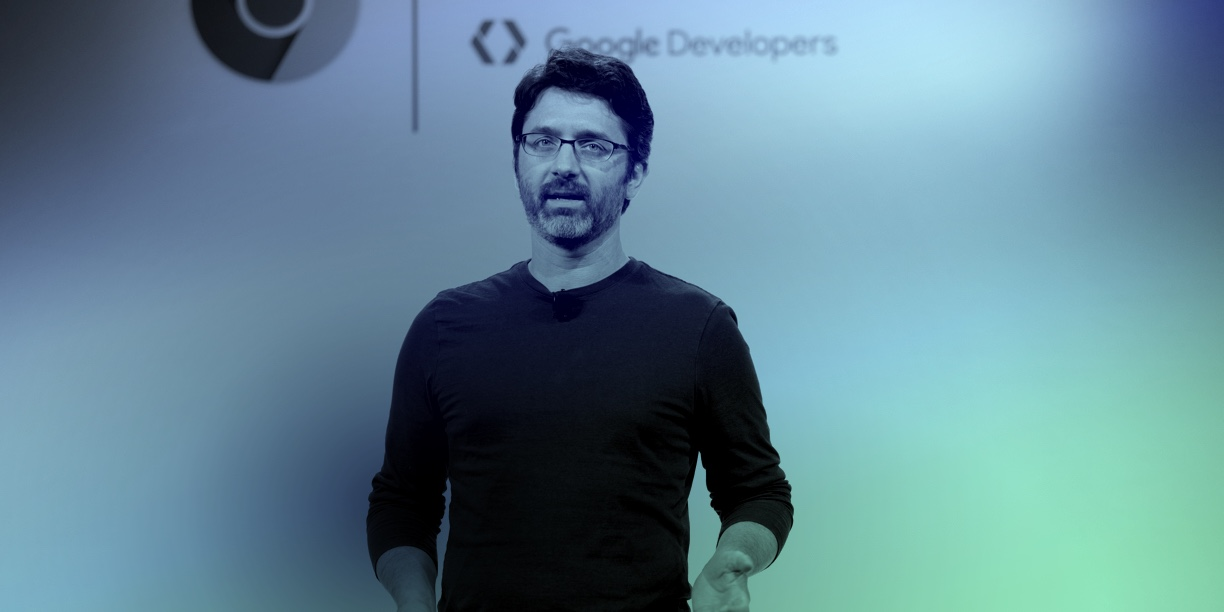
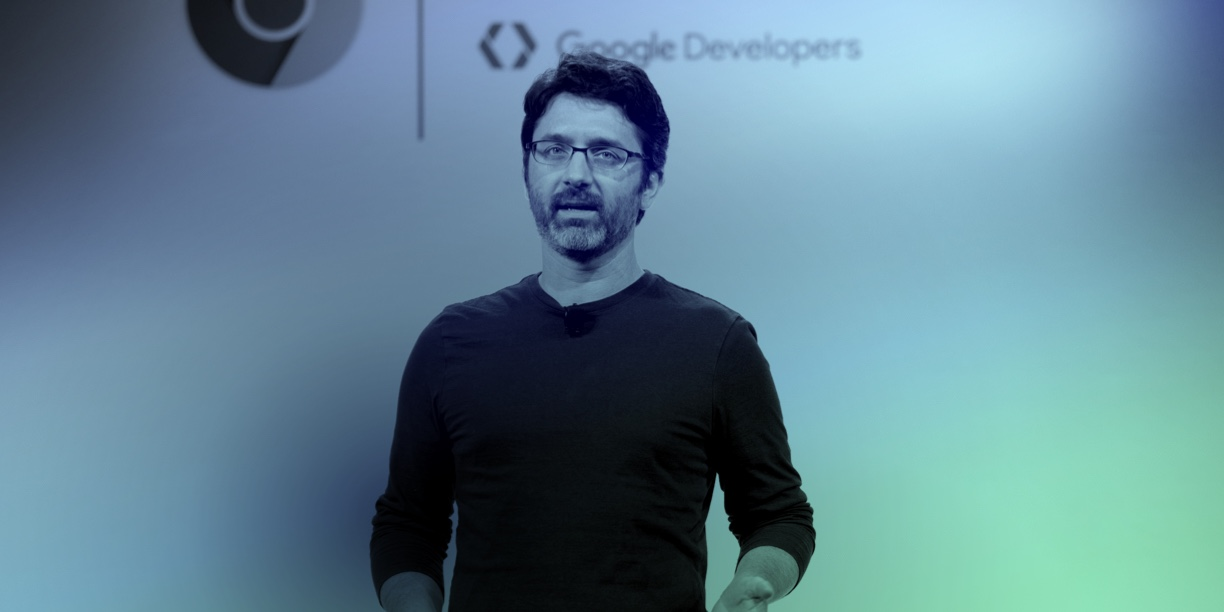
Add 1.5x images for 1440px+ viewports

diff --git a/templates/includes/masthead.partial.html b/templates/includes/masthead.partial.html
@@ -34,7 +34,7 @@
       <foreignObject clip-path="url(#masthead-clip)" width="100%" height="100%">
         <style>
           #masthead-image {
-            background: url({{ image }}) center center no-repeat;
+            background: url({{ image }}.jpg) center center no-repeat;
             background-size: cover;
             width: 1224px;
             height: 612px;
@@ -61,6 +61,11 @@
 
           @media (min-width: 1440px) {
             #masthead-image {
+              {# A YT video will have a blurred image background, so there's no point in having a 1.5x video #}
+              {% if not youtubeId %}
+              background: url({{ image }}@1.5x.jpg) center center no-repeat;
+              background-size: cover;
+              {% endif %}
               background-position: 0 {% if is_live %}12vw{% else %}8vw{% endif %};
             }
           }

diff --git a/sections/home.html b/sections/home.html
@@ -1,6 +1,6 @@
 {% extends "templates/base.html" %}
 {% set inline_styles=True %}
-{% set mastheadimage="/devsummit/static/images/masthead/homepage-masthead.jpg" %}
+{% set mastheadimage="/devsummit/static/images/masthead/homepage-masthead" %}
 {% set mastheadtitle="Chrome Dev Summit" %}
 {% set mastheadimagetitle="Darin Fisher delivering the Keynote at Chrome Dev Summit 2015." %}
 {% set pagestyles="static/styles/home.css" %}

diff --git a/sections/schedule/sessions/session-2.html b/sections/schedule/sessions/session-2.html
@@ -1,5 +1,5 @@
 {% extends "templates/base.html" %}
-{% set mastheadimage="/devsummit/static/images/masthead/collage-masthead-blurred.jpg" %}
+{% set mastheadimage="/devsummit/static/images/masthead/collage-masthead-blurred" %}
 {% set mastheadimagetitle="A blurred collage of photos from Chrome Dev Summit 2015." %}
 {% set pagestyles="static/styles/sessions.css" %}
 {% set section="Session" %}

diff --git a/sections/code-of-conduct.html b/sections/code-of-conduct.html
@@ -1,5 +1,5 @@
 {% extends "templates/base.html" %}
-{% set mastheadimage="/devsummit/static/images/masthead/collage-masthead.jpg" %}
+{% set mastheadimage="/devsummit/static/images/masthead/collage-masthead" %}
 {% set mastheadimagetitle="A collage of photos from Chrome Dev Summit 2015." %}
 {% set mastheadtitle="Code of Conduct" %}
 {% set pagestyles="static/styles/code-of-conduct.css" %}

diff --git a/sections/live.html b/sections/live.html
@@ -1,5 +1,5 @@
 {% extends "templates/base.html" %}
-{% set mastheadimage="/devsummit/static/images/masthead/collage-masthead-blurred.jpg" %}
+{% set mastheadimage="/devsummit/static/images/masthead/collage-masthead-blurred" %}
 {% set mastheadimagetitle="A blurred collage of photos from Chrome Dev Summit 2015." %}
 {% set pagestyles="static/styles/live.css" %}
 {% set section="Live" %}

diff --git a/sections/schedule.html b/sections/schedule.html
@@ -1,5 +1,5 @@
 {% extends "templates/base.html" %}
-{% set mastheadimage="/devsummit/static/images/masthead/collage-masthead.jpg" %}
+{% set mastheadimage="/devsummit/static/images/masthead/collage-masthead" %}
 {% set mastheadimagetitle="A collage of photos from Chrome Dev Summit 2015." %}
 {% set mastheadtitle="Schedule" %}
 {% set pagestyles="static/styles/schedule.css" %}

diff --git a/sections/location.html b/sections/location.html
@@ -1,5 +1,5 @@
 {% extends "templates/base.html" %}
-{% set mastheadimage="/devsummit/static/images/masthead/location-masthead.jpg" %}
+{% set mastheadimage="/devsummit/static/images/masthead/location-masthead" %}
 {% set mastheadimagetitle="Miner Auditorium at SF Jazz." %}
 {% set mastheadtitle="Location" %}
 {% set pagestyles="static/styles/location.css" %}

diff --git a/sections/schedule/day-2.html b/sections/schedule/day-2.html
@@ -1,5 +1,5 @@
 {% extends "templates/base.html" %}
-{% set mastheadimage="/devsummit/static/images/masthead/collage-masthead.jpg" %}
+{% set mastheadimage="/devsummit/static/images/masthead/collage-masthead" %}
 {% set mastheadtitle="Schedule" %}
 {% set pagestyles="static/styles/schedule.css" %}
 {% set section="Schedule" %}

diff --git a/sections/schedule/sessions/session-1.html b/sections/schedule/sessions/session-1.html
@@ -1,5 +1,5 @@
 {% extends "templates/base.html" %}
-{% set mastheadimage="/devsummit/static/images/masthead/collage-masthead.jpg" %}
+{% set mastheadimage="/devsummit/static/images/masthead/collage-masthead" %}
 {% set pagestyles="static/styles/sessions.css" %}
 {% set section="Session" %}
 {% block content %}
